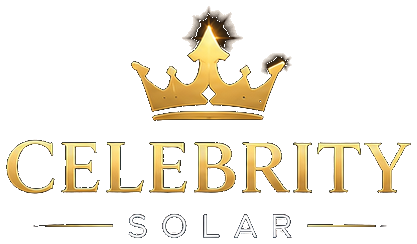
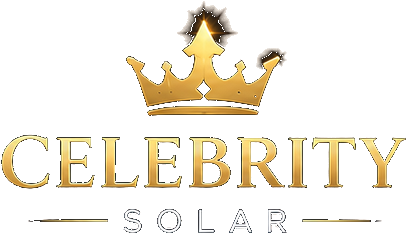
Enlarge the brand lockups in the page headers.
Trim the transparent margin and show each logo at 80px on desktop and 56px on mobile, directly on the dark header so the artwork fills the bar.

diff --git a/src/components/BrandPage.tsx b/src/components/BrandPage.tsx
@@ -26,20 +26,20 @@ const BRAND_LOCKUPS = {
   'celebrity-solar': {
     src: 'assets/brand/celebrity-solar-lockup.webp',
     alt: 'Celebrity Solar',
-    width: 417,
-    height: 244,
+    width: 407,
+    height: 234,
   },
   'hip-hop-solar': {
     src: 'assets/brand/hip-hop-solar-lockup.webp',
     alt: 'Hip-Hop Solar',
-    width: 373,
-    height: 248,
+    width: 363,
+    height: 237,
   },
   'gas-genie': {
     src: 'assets/brand/gas-genie-lockup.webp',
     alt: 'Gas Genie',
-    width: 397,
-    height: 252,
+    width: 387,
+    height: 241,
   },
 } as const
 
@@ -236,8 +236,11 @@ function Header({
 }) {
   const logo = lockup ?? POWER_GENIE_LOCKUP
   return (
-    <header className="flex items-center justify-between gap-5 px-[5vw] py-[18px] border-b border-[#ffffff20] bg-[#071b27]">
-      <button onClick={() => onNavigate('journey')} className="flex items-center gap-[10px] font-semibold text-xl tracking-[-0.6px] bg-transparent border-0 text-inherit p-0 cursor-pointer">
+    <header className={cn(
+      'flex items-center justify-between border-b border-[#ffffff20] bg-[#071b27]',
+      lockup ? 'gap-3 px-4 py-3 sm:gap-5 sm:px-[5vw]' : 'gap-5 px-[5vw] py-[18px]',
+    )}>
+      <button onClick={() => onNavigate('journey')} className="flex shrink-0 items-center gap-[10px] bg-transparent border-0 p-0 font-semibold text-xl tracking-[-0.6px] text-inherit cursor-pointer">
         <img
           src={logo.src}
           alt={logo.alt}
@@ -245,12 +248,15 @@ function Header({
           height={logo.height}
           className={
             lockup
-              ? 'block h-11 w-auto max-w-[150px] shrink-0 object-contain rounded-xl bg-[#071b27] px-2.5 py-1 shadow-[0_4px_12px_rgba(7,27,39,0.18)] max-sm:h-10 max-sm:max-w-[130px]'
+              ? 'block h-20 w-auto shrink-0 object-contain max-sm:h-14'
               : 'h-10 w-auto aspect-[647/180] object-contain max-md:h-8'
           }
         />
       </button>
-      <nav aria-label="Brand navigation" className="flex gap-6 text-sm max-md:gap-3 max-md:text-xs">
+      <nav aria-label="Brand navigation" className={cn(
+        'flex items-center gap-6 text-sm max-md:gap-3 max-md:text-xs',
+        lockup && 'shrink-0 whitespace-nowrap',
+      )}>
         <span
           role="link"
           aria-disabled="true"
